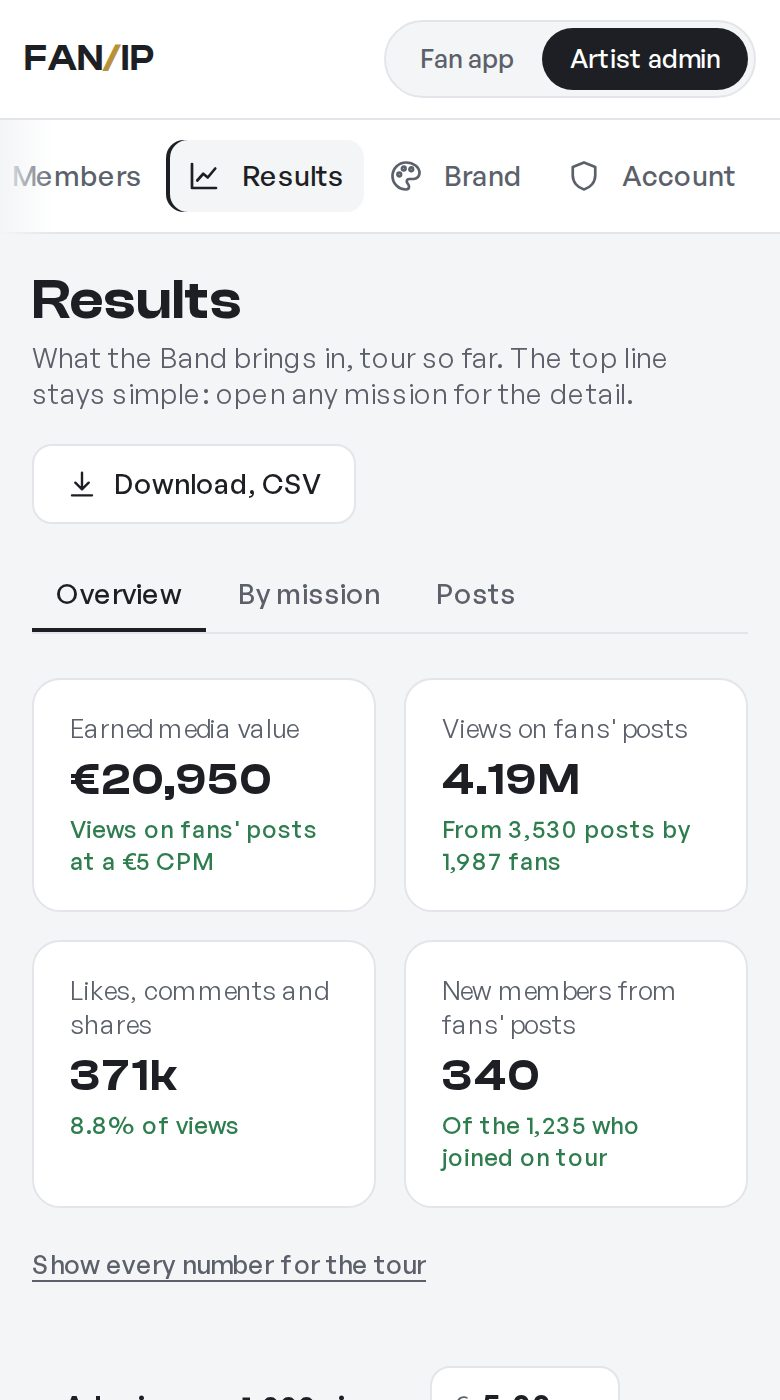
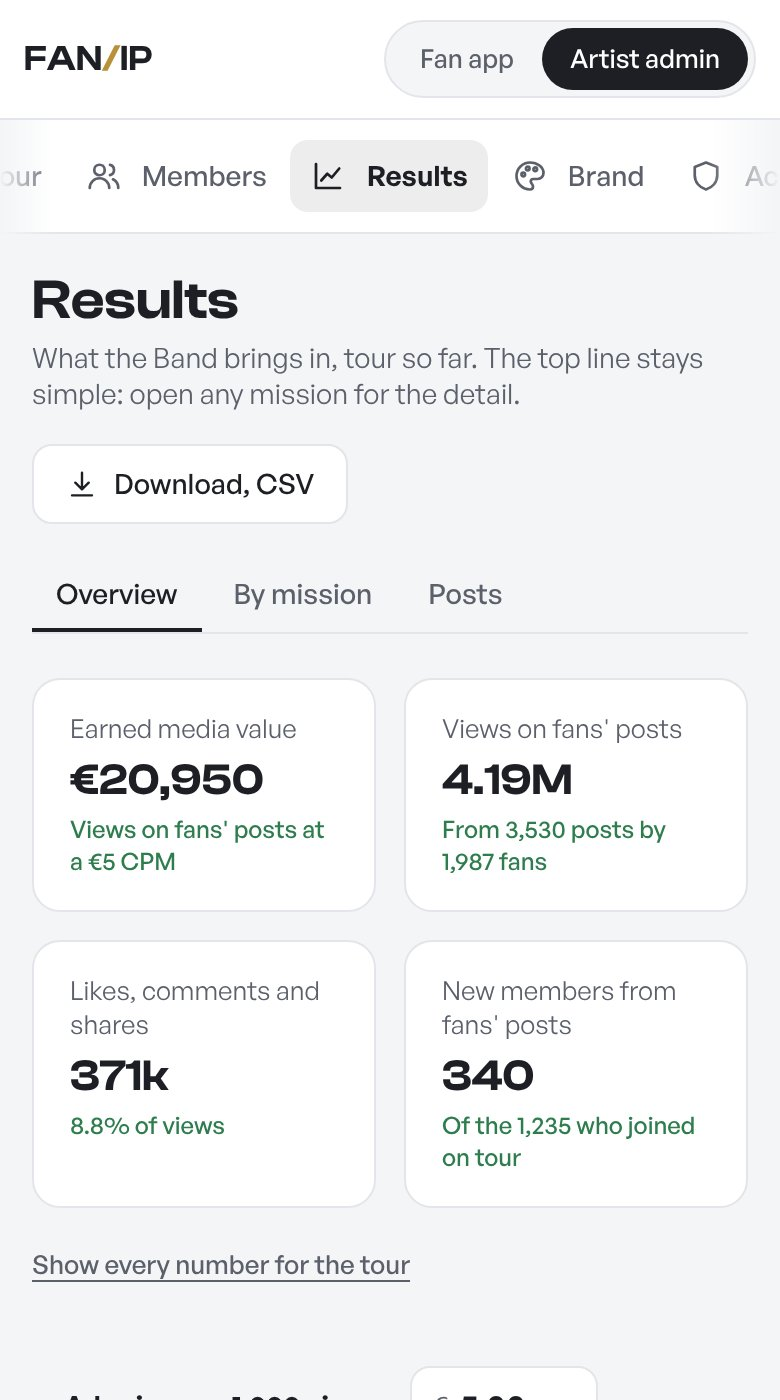
Demos: active admin tab without the dark left bar, Soon tags placed with their label
- Admin nav (Aldermoor, Maison Aube, Ilsa Morrow, private demo): the current page is
  a grey fill and semibold text, as in the app's own admin; the 2px dark bar on its
  left edge is gone (on phones it showed as a black hook on the tab).
- Soon tags stay inline: a tile rule (".mkpi span { display: block }") pushed the tag
  onto its own line with a 6px indent. In figure tiles the label and its tag now wrap
  together: next to the label when it fits, flush left under it otherwise.
- The three Results pictures on the home, sport and artists pages are retaken.

Claude-Session: https://claude.ai/code/session_014kcs1Zqpq1RrqLjFGMoVpB

diff --git a/demo/ilsa-morrow/index.html b/demo/ilsa-morrow/index.html
@@ -109,8 +109,12 @@ img, svg { max-width: 100%; }
 .toast { position: absolute; left: 50%; bottom: calc(96px + var(--home-ind, 0px)); z-index: 30; transform: translate(-50%, 20px); opacity: 0; padding: 12px 18px; border-radius: var(--r-toast, 999px); background: var(--toast-bg, var(--ink)); color: var(--toast-fg, #fff); font-weight: 600; font-size: 0.875rem; box-shadow: var(--shadow-lift); transition: opacity 0.25s, transform 0.35s var(--ease-spring); pointer-events: none; max-width: calc(100% - 32px); width: max-content; text-align: center; }
 .toast.show { opacity: 1; transform: translate(-50%, 0); }
 /* "Soon": a screen or a figure that shows a feature on the roadmap. Its own colours, so it reads on every look and in the admin. */
-.soon-tag { display: inline-block; vertical-align: middle; margin-left: 6px; padding: 1px 7px; border-radius: 999px; background: #fff3c8; color: #4f3b00; border: 1px solid #b8962e; font: 700 0.6875rem/1.45 system-ui, -apple-system, "Segoe UI", sans-serif; letter-spacing: 0.02em; text-transform: none; font-style: normal; white-space: nowrap; }
+/* Always inline, next to its label: a "card span { display: block }" rule must not push it to its own line. */
+.soon-tag { display: inline-block !important; vertical-align: middle; margin-left: 6px; padding: 1px 7px; border-radius: 999px; background: #fff3c8; color: #4f3b00; border: 1px solid #b8962e; font: 700 0.6875rem/1.45 system-ui, -apple-system, "Segoe UI", sans-serif; letter-spacing: 0.02em; text-transform: none; font-style: normal; white-space: nowrap; }
 .soon-tag.soon-h { font-size: 0.75rem; vertical-align: 0.4em; }
+/* In a figure tile the label and its tag wrap together: the tag sits next to the label when it fits, else flush left on the next line. */
+:is(.sp-tile, .mkpi, .vh-tile) > span:has(> .soon-tag) { display: flex; flex-wrap: wrap; align-items: center; gap: 4px 6px; }
+:is(.sp-tile, .mkpi, .vh-tile) > span > .soon-tag { margin-left: 0; }
 .sheet-layer.open ~ .toast { bottom: auto; top: calc(16px + var(--notch, 0px)); transform: translate(-50%, -10px); }
 .sheet-layer.open ~ .toast.show { transform: translate(-50%, 0); }
 @container dev (min-width: 820px) { .toast { bottom: 32px; } }
@@ -132,7 +136,7 @@ img, svg { max-width: 100%; }
 .adm-nav button { display: flex; align-items: center; gap: 10px; padding: 9px 10px; border: 0; border-radius: 9px; background: none; color: var(--fx-ink-2); font-weight: 500; text-align: left; cursor: pointer; }
 .adm-nav button svg { width: 18px; height: 18px; flex: none; }
 .adm-nav button:hover { background: var(--fx-soft); color: var(--fx-ink); }
-.adm-nav button[aria-current="page"] { background: var(--fx-soft); color: var(--fx-ink); box-shadow: inset 2px 0 0 var(--fx-ink); }
+.adm-nav button[aria-current="page"] { background: color-mix(in srgb, var(--fx-ink) 8%, var(--fx-surface)); color: var(--fx-ink); font-weight: 600; }
 .adm-nav .badge-n { margin-left: auto; min-width: 20px; padding: 0 6px; border-radius: 999px; background: var(--fx-ink); color: #fff; font-size: 0.6875rem; line-height: 18px; text-align: center; }
 .adm-side .fanip { margin-top: auto; font-family: var(--fx-display); font-weight: 600; font-size: 0.9375rem; color: var(--fx-ink-2); padding: 0 8px; }
 .adm-side .fanip i { font-style: normal; color: var(--fx-gold); }

diff --git a/demo/maison-aube/index.html b/demo/maison-aube/index.html
@@ -109,8 +109,12 @@ img, svg { max-width: 100%; }
 .toast { position: absolute; left: 50%; bottom: calc(96px + var(--home-ind, 0px)); z-index: 30; transform: translate(-50%, 20px); opacity: 0; padding: 12px 18px; border-radius: var(--r-toast, 999px); background: var(--toast-bg, var(--ink)); color: var(--toast-fg, #fff); font-weight: 600; font-size: 0.875rem; box-shadow: var(--shadow-lift); transition: opacity 0.25s, transform 0.35s var(--ease-spring); pointer-events: none; max-width: calc(100% - 32px); width: max-content; text-align: center; }
 .toast.show { opacity: 1; transform: translate(-50%, 0); }
 /* "Soon": a screen or a figure that shows a feature on the roadmap. Its own colours, so it reads on every look and in the admin. */
-.soon-tag { display: inline-block; vertical-align: middle; margin-left: 6px; padding: 1px 7px; border-radius: 999px; background: #fff3c8; color: #4f3b00; border: 1px solid #b8962e; font: 700 0.6875rem/1.45 system-ui, -apple-system, "Segoe UI", sans-serif; letter-spacing: 0.02em; text-transform: none; font-style: normal; white-space: nowrap; }
+/* Always inline, next to its label: a "card span { display: block }" rule must not push it to its own line. */
+.soon-tag { display: inline-block !important; vertical-align: middle; margin-left: 6px; padding: 1px 7px; border-radius: 999px; background: #fff3c8; color: #4f3b00; border: 1px solid #b8962e; font: 700 0.6875rem/1.45 system-ui, -apple-system, "Segoe UI", sans-serif; letter-spacing: 0.02em; text-transform: none; font-style: normal; white-space: nowrap; }
 .soon-tag.soon-h { font-size: 0.75rem; vertical-align: 0.4em; }
+/* In a figure tile the label and its tag wrap together: the tag sits next to the label when it fits, else flush left on the next line. */
+:is(.sp-tile, .mkpi, .vh-tile) > span:has(> .soon-tag) { display: flex; flex-wrap: wrap; align-items: center; gap: 4px 6px; }
+:is(.sp-tile, .mkpi, .vh-tile) > span > .soon-tag { margin-left: 0; }
 .sheet-layer.open ~ .toast { bottom: auto; top: calc(16px + var(--notch, 0px)); transform: translate(-50%, -10px); }
 .sheet-layer.open ~ .toast.show { transform: translate(-50%, 0); }
 @container dev (min-width: 820px) { .toast { bottom: 32px; } }
@@ -132,7 +136,7 @@ img, svg { max-width: 100%; }
 .adm-nav button { display: flex; align-items: center; gap: 10px; padding: 9px 10px; border: 0; border-radius: 9px; background: none; color: var(--fx-ink-2); font-weight: 500; text-align: left; cursor: pointer; }
 .adm-nav button svg { width: 18px; height: 18px; flex: none; }
 .adm-nav button:hover { background: var(--fx-soft); color: var(--fx-ink); }
-.adm-nav button[aria-current="page"] { background: var(--fx-soft); color: var(--fx-ink); box-shadow: inset 2px 0 0 var(--fx-ink); }
+.adm-nav button[aria-current="page"] { background: color-mix(in srgb, var(--fx-ink) 8%, var(--fx-surface)); color: var(--fx-ink); font-weight: 600; }
 .adm-nav .badge-n { margin-left: auto; min-width: 20px; padding: 0 6px; border-radius: 999px; background: var(--fx-ink); color: #fff; font-size: 0.6875rem; line-height: 18px; text-align: center; }
 .adm-side .fanip { margin-top: auto; font-family: var(--fx-display); font-weight: 600; font-size: 0.9375rem; color: var(--fx-ink-2); padding: 0 8px; }
 .adm-side .fanip i { font-style: normal; color: var(--fx-gold); }

diff --git a/demo/aldermoor/index.html b/demo/aldermoor/index.html
@@ -279,8 +279,12 @@ img, svg { max-width: 100%; }
 .pend-dot[hidden] { display: none; }
 .pend-dot:focus-visible { outline: 2px solid #1a56db; outline-offset: 2px; }
 /* "Soon": a screen or a figure that shows a feature on the roadmap. Its own colours, so it reads on every style and in the admin. */
-.soon-tag { display: inline-block; vertical-align: middle; margin-left: 6px; padding: 1px 7px; border-radius: 999px; background: #fff3c8; color: #4f3b00; border: 1px solid #b8962e; font: 700 0.6875rem/1.45 "Archivo", system-ui, sans-serif; letter-spacing: 0.02em; text-transform: none; font-style: normal; white-space: nowrap; }
+/* Always inline, next to its label: a "card span { display: block }" rule must not push it to its own line. */
+.soon-tag { display: inline-block !important; vertical-align: middle; margin-left: 6px; padding: 1px 7px; border-radius: 999px; background: #fff3c8; color: #4f3b00; border: 1px solid #b8962e; font: 700 0.6875rem/1.45 "Archivo", system-ui, sans-serif; letter-spacing: 0.02em; text-transform: none; font-style: normal; white-space: nowrap; }
 .soon-tag.soon-h { font-size: 0.75rem; vertical-align: 0.4em; }
+/* In a figure tile the label and its tag wrap together: the tag sits next to the label when it fits, else flush left on the next line. */
+:is(.sp-tile, .mkpi, .vh-tile) > span:has(> .soon-tag) { display: flex; flex-wrap: wrap; align-items: center; gap: 4px 6px; }
+:is(.sp-tile, .mkpi, .vh-tile) > span > .soon-tag { margin-left: 0; }
 @keyframes bump { 40% { transform: scale(1.12); } }
 .avatar {
   flex: none;
@@ -930,7 +934,7 @@ img, svg { max-width: 100%; }
 .adm-nav button { display: flex; align-items: center; gap: 10px; padding: 9px 10px; border: 0; border-radius: 9px; background: none; color: var(--fx-ink-2); font-weight: 500; text-align: left; cursor: pointer; }
 .adm-nav button svg { width: 18px; height: 18px; flex: none; }
 .adm-nav button:hover { background: var(--fx-soft); color: var(--fx-ink); }
-.adm-nav button[aria-current="page"] { background: var(--fx-soft); color: var(--fx-ink); box-shadow: inset 2px 0 0 var(--fx-ink); }
+.adm-nav button[aria-current="page"] { background: color-mix(in srgb, var(--fx-ink) 8%, var(--fx-surface)); color: var(--fx-ink); font-weight: 600; }
 .adm-side .fanip { margin-top: auto; font-family: var(--fx-display); font-weight: 600; font-size: 0.9375rem; color: var(--fx-ink-2); padding: 0 8px; }
 .adm-side .fanip i { font-style: normal; color: var(--fx-gold); }
 .adm-main { overflow-y: auto; padding: 28px 32px 48px; }

diff --git a/d/4467h6244anwje/index.html b/d/4467h6244anwje/index.html
@@ -625,7 +625,7 @@ svg { max-width: 100%; }
 .adm-nav button { display: flex; align-items: center; gap: 10px; min-height: 40px; padding: 0 10px; border: 0; border-radius: 9px; background: none; color: var(--fx-ink-2); font-weight: 500; text-align: left; cursor: pointer; }
 .adm-nav button svg { width: 18px; height: 18px; flex: none; }
 .adm-nav button:hover { background: var(--fx-soft); color: var(--fx-ink); }
-.adm-nav button[aria-current="page"] { background: var(--fx-soft); color: var(--fx-ink); box-shadow: inset 2px 0 0 var(--fx-ink); }
+.adm-nav button[aria-current="page"] { background: color-mix(in srgb, var(--fx-ink) 8%, var(--fx-surface)); color: var(--fx-ink); font-weight: 600; }
 .adm-nav .badge-n { margin-left: auto; min-width: 20px; padding: 0 6px; border-radius: 999px; background: var(--fx-ink); color: #fff; font-size: 0.6875rem; line-height: 18px; text-align: center; }
 .adm-side .fanip { margin-top: auto; font-family: var(--fx-display); font-weight: 600; font-size: 0.9375rem; color: var(--fx-ink-2); padding: 0 8px; }
 .adm-side .fanip i { font-style: normal; color: var(--fx-gold); }
